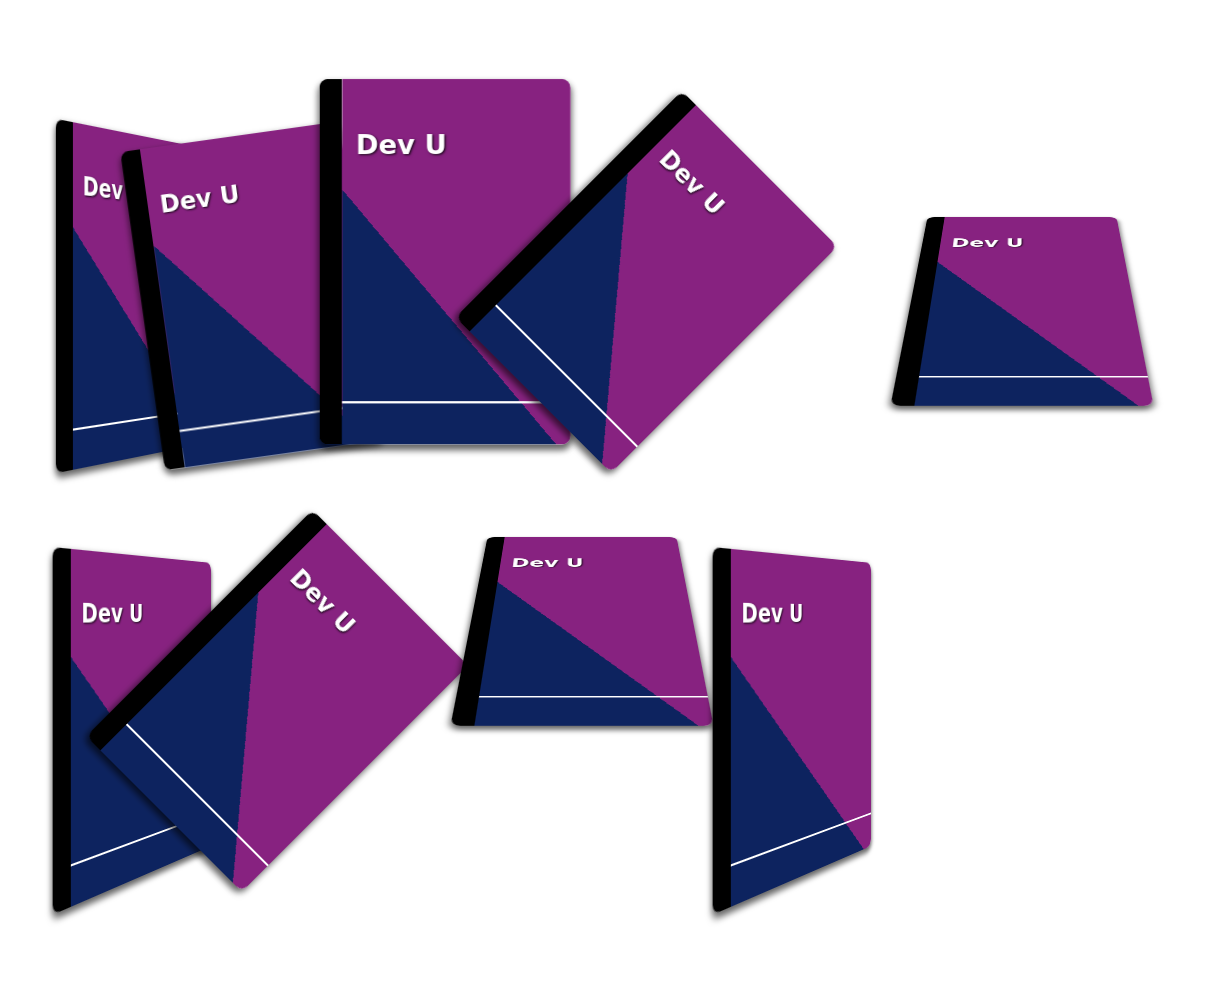
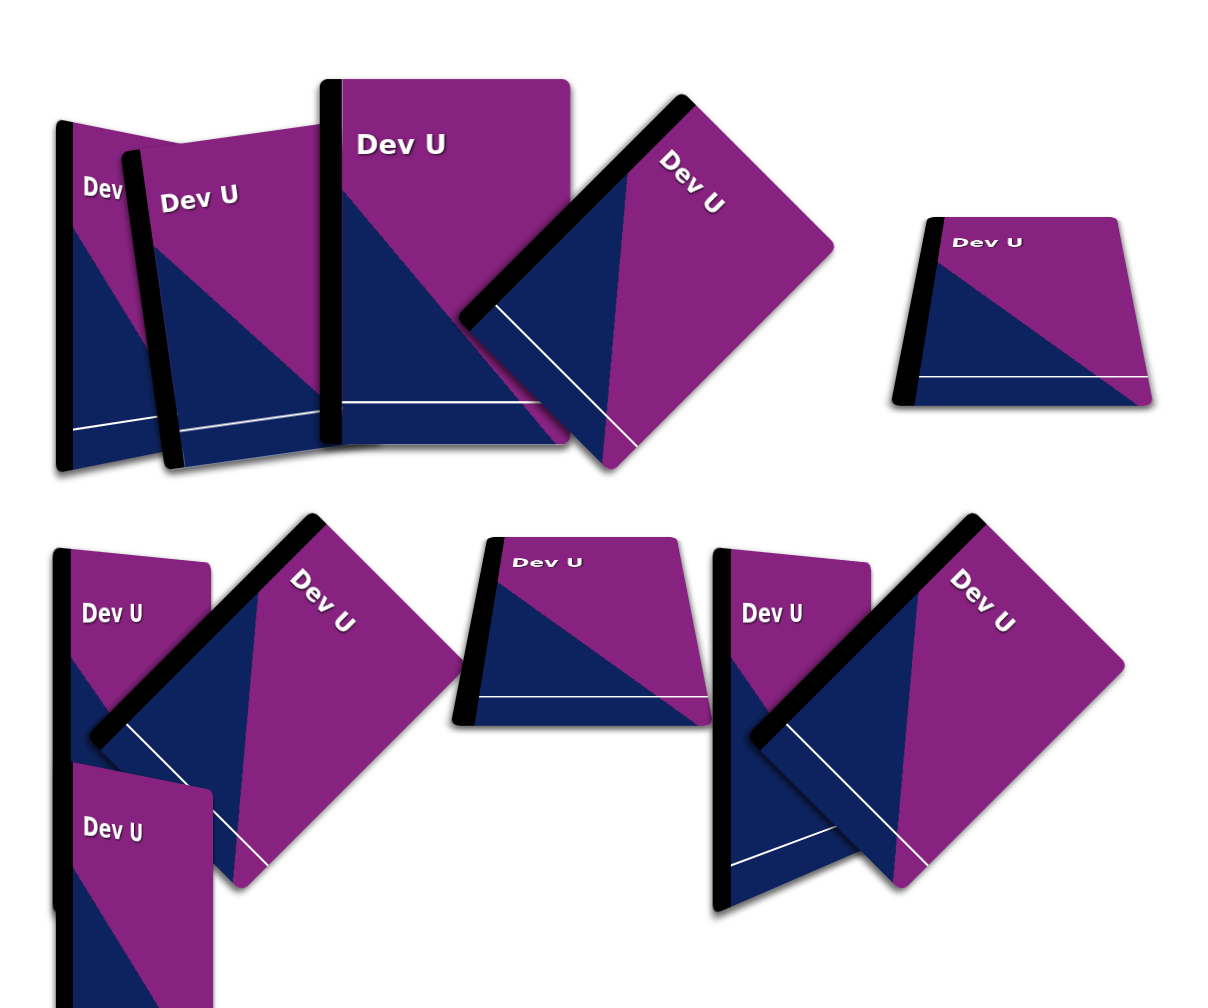
add box transform

Changed region(s): [[0.6126, 0.4921, 0.9495, 0.8919], [0.0306, 0.7381, 0.1838, 1.0]]

diff --git a/transformations/index.html b/transformations/index.html
@@ -48,6 +48,10 @@
         <h2>Dev U</h2>
         <div class="line"></div>
       </div>
+      <div class="box t1">
+        <h2>Dev U</h2>
+        <div class="line"></div>
+      </div>
     </div>
   </body>
 </html>
